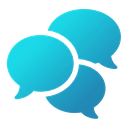
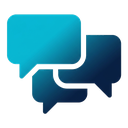
feat(planos): segundo jogo de ícones para o tema escuro
O degradê rico da marca — ciano para marinho — fica lindo no cartão branco e some
no cartão do tema escuro, que é marinho (#0e2440): os balões escuros
desapareciam dentro do fundo, o Prime virava um balão só e o Multiclínica perdia
a estrutura. Medido compondo os ícones sobre os dois fundos antes de instalar, e
é por isso que o jogo único que subiu antes usava um degradê mais claro e menos
bonito no claro.

Agora são dois: o rico no tema claro e um luminoso (aqua → ciano vivo) no escuro.

**O jogo escuro é o mesmo desenho recolorido, não um desenho novo.** A primeira
tentativa foi gerar do zero com a cor nova, e veio com outra geometria — balões
ovais contra os retângulos arredondados do claro. Forma que muda ao trocar de
tema lê como defeito, não como tema. O segundo jogo saiu por **edição** do
arquivo claro, pedindo só a troca do degradê: mesma composição, mesma contagem de
balões, mesmas bordas.

A troca é por CSS (`dark:hidden` / `hidden dark:block`), e não por estado:
`next-themes` só resolve o tema depois de montar, então decidir em JavaScript
pisca o ícone errado no primeiro quadro.

diff --git a/src/lib/plans.ts b/src/lib/plans.ts
@@ -126,12 +126,20 @@ export interface Plan {
      * marca. A contagem de balões é o degrau do plano, e conversa é o que o
      * produto faz.
      *
-     * A ponta escura do degradê para no azul médio, e não no marinho da marca,
-     * porque o cartão no tema escuro é marinho (#0e2440) e os balões escuros
-     * sumiam dentro dele — medido compondo o ícone sobre os dois fundos. Um
-     * arquivo serve aos dois temas.
+     * **São dois jogos, um por tema.** O degradê rico da marca, ciano para
+     * marinho, fica lindo no cartão branco e some no cartão do tema escuro, que
+     * é marinho (#0e2440): os balões escuros desapareciam dentro do fundo, o
+     * Prime virava um balão só e o Multiclínica perdia a estrutura. Medido
+     * compondo os ícones sobre os dois fundos antes de instalar.
+     *
+     * O jogo escuro é o **mesmo desenho recolorido**, não um desenho novo —
+     * gerado por edição a partir do arquivo claro. Um segundo desenho mudaria a
+     * geometria ao trocar de tema, e forma que muda sozinha lê como defeito, não
+     * como tema.
      */
     icon: string
+    /** O mesmo desenho, em degradê luminoso, para o cartão do tema escuro. */
+    iconDark: string
     name: string
     description: string
     price: number
@@ -152,6 +160,7 @@ export const PLANS: Record<PlanId, Plan> = {
     flow: {
         id: 'flow',
         icon: '/planos/digital.png',
+        iconDark: '/planos/digital-escuro.png',
         name: 'Plano Digital',
         description:
             'Para clínicas que precisam conectar pacientes, WhatsApp e atendimento em um só lugar.',
@@ -170,6 +179,7 @@ export const PLANS: Record<PlanId, Plan> = {
     pro: {
         id: 'pro',
         icon: '/planos/prime.png',
+        iconDark: '/planos/prime-escuro.png',
         name: 'Plano Prime',
         description:
             'Para clínicas que precisam distribuir conversas, ampliar o atendimento e administrar mais canais.',
@@ -191,6 +201,7 @@ export const PLANS: Record<PlanId, Plan> = {
     advanced: {
         id: 'advanced',
         icon: '/planos/multiclinica.png',
+        iconDark: '/planos/multiclinica-escuro.png',
         name: 'Plano Multiclínica',
         description:
             'Para clínicas com operações maiores, múltiplas unidades e maior fluxo de pacientes.',

diff --git a/src/components/account/PlanoTab.tsx b/src/components/account/PlanoTab.tsx
@@ -45,6 +45,7 @@ interface SubscriptionData {
 interface PlanConfig {
     name: string
     icon: string
+    iconDark: string
     description: string
     price: number
     badge: string | null
@@ -440,13 +441,15 @@ export function PlanoTab() {
                                         Lucide, e por baixo de um ícone que já tem
                                         degradê próprio ela só brigava. */}
                                     <div className="flex items-center gap-2">
-                                        <img
-                                            src={plan.icon}
-                                            alt=""
-                                            width={32}
-                                            height={32}
-                                            className="size-8 shrink-0"
-                                        />
+                                        {/* Dois arquivos, um por tema: o degradê rico da marca some no
+                                            cartão escuro, que é marinho. Trocados por CSS e não por
+                                            estado, para não piscar o ícone errado antes de o tema ser
+                                            conhecido — `next-themes` só resolve depois de montar. O
+                                            `alt` vazio nos dois porque o nome do plano está escrito ao
+                                            lado: um leitor de tela que anunciasse o ícone diria o nome
+                                            duas vezes. */}
+                                        <img src={plan.icon} alt="" width={32} height={32} className="size-8 shrink-0 dark:hidden" />
+                                        <img src={plan.iconDark} alt="" width={32} height={32} className="hidden size-8 shrink-0 dark:block" />
                                         <h3 className="text-[15px] font-bold">{plan.name}</h3>
                                     </div>
 

diff --git a/src/components/onboarding/Step2Plan.tsx b/src/components/onboarding/Step2Plan.tsx
@@ -59,13 +59,15 @@ export function Step2Plan({ data, updateData, onNext, onBack }: Step2PlanProps) 
                                 duas telas apresentarem o mesmo produto. */}
                             <div className="flex items-start justify-between gap-2">
                                 <div className="flex items-center gap-2">
-                                    <img
-                                        src={plan.icon}
-                                        alt=""
-                                        width={36}
-                                        height={36}
-                                        className="size-9 shrink-0"
-                                    />
+                                    {/* Dois arquivos, um por tema: o degradê rico da marca some no
+                                        cartão escuro, que é marinho. Trocados por CSS e não por
+                                        estado, para não piscar o ícone errado antes de o tema ser
+                                        conhecido — `next-themes` só resolve depois de montar. O
+                                        `alt` vazio nos dois porque o nome do plano está escrito ao
+                                        lado: um leitor de tela que anunciasse o ícone diria o nome
+                                        duas vezes. */}
+                                    <img src={plan.icon} alt="" width={36} height={36} className="size-9 shrink-0 dark:hidden" />
+                                    <img src={plan.iconDark} alt="" width={36} height={36} className="hidden size-9 shrink-0 dark:block" />
                                     <h3 className="text-h4">{plan.name}</h3>
                                 </div>
                                 {plan.badge ? (

diff --git a/src/app/api/account/subscription/route.ts b/src/app/api/account/subscription/route.ts
@@ -23,6 +23,7 @@ const PLANS = Object.fromEntries(
         {
             name: p.name,
             icon: p.icon,
+            iconDark: p.iconDark,
             description: p.description,
             price: p.price,
             badge: p.badge ?? null,
